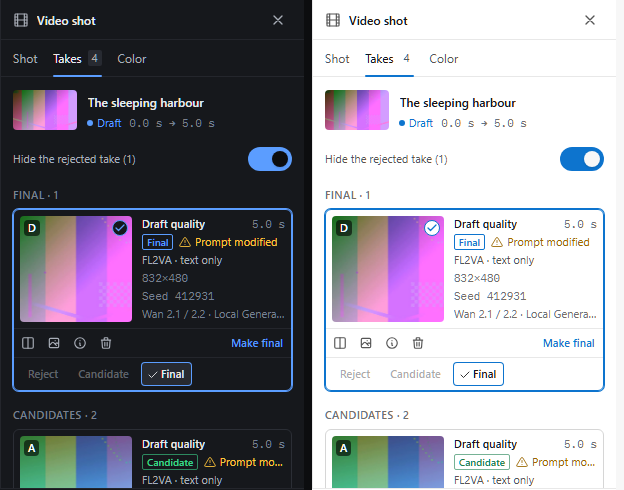
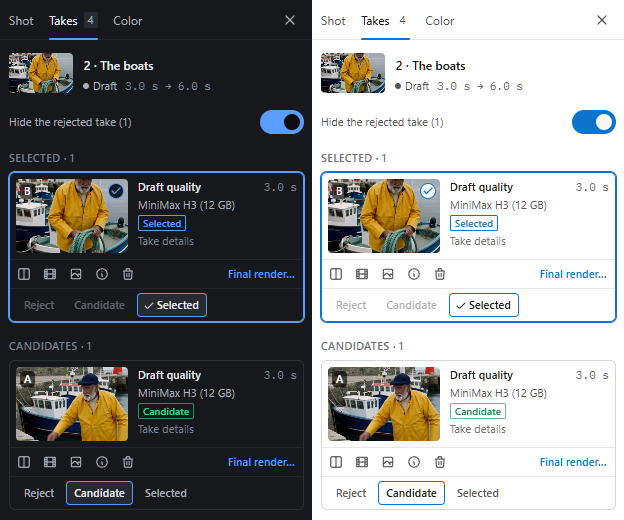
Video Producer screenshots: takes-cards, take-labels and export-video retaken on version 0.3.1 with real takes and a real export (the take cards with two finished and two failed drafts, the labels set by clicks, the export window with its Sound section), and their rows in the screenshots index descr

diff --git a/content/plugins/marketplace/video-producer/docs/screenshots/README.md b/content/plugins/marketplace/video-producer/docs/screenshots/README.md
@@ -103,7 +103,7 @@ The project is "Dawn at the harbour", the starter project of that time, with thr
 | Image | What it shows |
 |---|---|
 | [storyboard-takes](storyboard-takes.png) | The five cards: shot 1 with **Prompt modified** on its thumbnail (its take on the shot predates the edit), **Edit** on every card, shot 4 hovered with **Generate** and its drafts field at ×4, and shot 5 generating, with its step and progress over the thumbnail. Since 26 October 2026 a card has no **Generate**: a shot to generate shows only its drafts field, and the Production bar generates it; the header also starts with the grid icon, before "Storyboard". |
-| [take-labels](take-labels.png) | The Inspector of shot 1, tab **Takes**: **Hide the rejected take (1)** on, the group **Final** with take D ("Draft quality", then its label chip **Final** and **Prompt modified**, and **Reject**, **Candidate**, **Final** under the card, the first two greyed on the final take), then the group **Candidates** with take A. Since 26 October 2026 the tabs **Shot**, **Takes** and **Color** sit in the header of the Inspector, in place of the title "Video shot"; this image, taken before, shows them under it. |
+| [take-labels](take-labels.png) | 624 x 520 (312 x 520 per theme). Retaken on 12 November 2026 for version 0.3.1. The Inspector of shot 2 ("2 · The boats"), tab **Takes** in its header: **Hide the rejected take (1)** on, the group **Selected** with take B ("Draft quality", MiniMax H3 (12 GB), its label chip **Selected**, and **Reject** and **Candidate** greyed under the card, since a selected take stays selected until another one is), then the group **Candidates** with take A. The labels were set by real clicks on the take cards (B **Selected**, A **Candidate**, C **Reject**). |
 | [shot-editor](shot-editor.png) | The window "Shot · The sleeping harbour" after saving: the note on the 4 takes, the prompt, **References** with "Old fisherman" inherited and "Harbour at night" excluded (struck through), a reference of the shot only, named after its image file, the duration, the first and last frames, the drafts at ×3 and the **Engine** section of the shot, every field "As the project". |
 | [timeline-progress](timeline-progress.png) | The timeline with the block of shot 5 showing "Sampling · 9/20", 45 % and its bar, like the Storyboard card; the first and last frames of shot 1 on the Frames row. |
 
@@ -136,13 +136,15 @@ Nothing is staged in these images. The three sounds ("fisherman-voice.wav", "acc
 
 ## Generation
 
+The three rows `takes-cards`, `take-labels` and `export-video` were retaken on 12 November 2026 for version 0.3.1, dark theme on the left and light theme on the right, English interface, with test accounts, on a throwaway instance without a GPU that served `dev` and worked on a copy of the storage of two earlier GPU test instances. Nothing in them is staged: the takes are real MiniMax-H3 (12 GB) drafts made on those instances (two of them failed there for real, with the `gpu_restart_required` code), the shots were renamed in English in the copy, the labels were set by clicks, and the export ran ffmpeg on the server.
+
 `takes-cards.png`, `make-final.png` and `engine-popup.png` show the plugin alone, with no prototype next to them: the prototype never ran a generation. Each image joins the dark theme (left) and the light theme (right) of the English interface, as 1:1 crops of 1440 x 900 captures (no reduction), kept as PNG.
 
 The machine that took them has no GPU and no cloud key, so the generation routes of the plugin (`/me` engines and presets, `/estimate`, `/generate`, `/takes`, `/queue`, `/final`, `/cancel`, `/retry`) were answered by the capture script with data in the shape of the step 4 contract; the project, its autosave and the media library are the real ones. The videos of the done takes are two real MP4 files of the media library (832 x 480, 5 s, H.264) and their thumbnails come from the host. The seeds and the error message are made up for the captures.
 
 | Image | What it shows |
 |---|---|
-| [takes-cards](takes-cards.png) | 624 x 760 (312 x 760 per theme, English interface, crops of 1440 x 1200 captures, the bottom panel lowered). The group **Drafts · 3** of shot 1 in the Inspector: take E failed ("Draft quality", label **Draft**, "Failed", the readable message "The server’s GPU ran out of memory: try a lower resolution or fewer frames.", **Retry**, and **Reject**, **Candidate**, **Final** under it, **Final** greyed since the take has no video), take F generating ("Generating", "Sampling · 9/20", "45%", its bar and **Cancel**) and take G queued ("Queued", **Cancel**), then "3 more drafts" with the drafts field at ×3 (greyed while shot 1 generates; since 26 October 2026 that button is gone and the line reads "Drafts of this shot" next to the field). Taken on 23 October 2026 on the throwaway instance of the section Storyboard: drafts, labels, shot editor, progress: take E is a row written in the takes table (with the `cuda_oom` code), takes F and G are added to the answers of the take routes by the capture script. |
+| [takes-cards](takes-cards.png) | 624 x 840 (312 x 840 per theme, crops of 1440 x 1200 captures, the timeline lowered). Retaken on 12 November 2026 for version 0.3.1. The group **Drafts · 4** of shot 2 in the Inspector: takes A and B finished ("Draft quality", MiniMax H3 (12 GB), label **Draft**, the tools row and **Final render…**; B is the take placed on the shot, with its check mark), then takes C and D failed ("Failed", the readable message "The server’s GPU needs a restart before it can generate again: an administrator must restart the backend (Administration › Backends).", **Retry**, and **Selected** greyed since the take has no video). |
 | [make-final](make-final.png) | 1024 x 377. The "Make final" window of take A: title with the shot and the variant, subtitle with the draft size and the seed, then "Upscale" with the SeedVR2 hint and the four targets (720p, 1080p, 1440p, 4K; 1080p is preselected because the project resolution is 1080p). "Upscale to 1080p" is the primary action; "Re-render at full resolution" sits on the left and the hint above it names its size (1280 x 720) and the same seed. |
 | [engine-popup](engine-popup.png) | 820 x 208. The engine pop-up of the Production bar, with the "AI generation" output mode and the sliders button around it (it opened the Advanced workshop when the image was taken; since 24 October 2026 it is **Edit Engine**, which opens the window of the engine options, and the profile, the margin and the count of the shots with their own engine sit between the pop-up and it). A native drop-down list is not painted by a headless screenshot, so the image shows the same `<select>` twice: closed, in the bar, and cloned as an open list box right under it. Groups are the backend names given by the host: "Local Generation" lists the presets of the native backend (Wan 2.1 / 2.2, MiniMax H3, MiniMax H3 Fast), "OpenRouter" lists the cloud models turned on (Veo 3 Fast, Kling 2.1). The selected entry is the one written in the document (`engine.preset`, `engine.model`, `engine.backend`). |
 
@@ -171,5 +173,5 @@ The real video is also visible in the thumbnails of `real-take.png` and in `dire
 
 | Image | What it shows |
 |---|---|
-| [export-video](export-video.png) | 1248 x 1332. The export window, "Video" tab, for the project "Dawn at the harbour" (web, 1080p, whole sequence). Top row: a run in progress, with the server step ("Assembling the shots", then mixing, converting and saving), the percentage, the progress bar and "Cancel"; the format, resolution and extent fields are locked while it runs and the "Export" button is disabled. Bottom row: the same export finished, with the file name and size (3.1 MB), "Show in the library" (the server stored a copy in the user's library) and "Download". The "Previous exports" list starts with the export in progress ("Rendering" and its percentage) and, once it ends, shows it as "Ready" with its size, a download icon and a trash icon. The "4 shots not final yet" warning is kept: only shot 1 (a real take) and the imported shot 6 have a file, the other shots are rendered black. "Audio stems by role" keeps its "Simulated" badge: stems, ProRes master and H.265 archive are not produced. Since 27 October 2026 they are produced, the badge and the extent field are gone; this image, taken before, still shows them. |
+| [export-video](export-video.png) | 1204 x 1492. Retaken on 12 November 2026 for version 0.3.1. The export window, "Video" tab, for the starter project "Lumi’s potion" (web, 1080p): the format and resolution fields, the audio stems switch, the **Sound** section (**Level** "As mixed", **Crossfade between neighbouring clips** "None"), the file card ("Lumis_potion_1080p.mp4", 1920×1080, 16:9, 25 fps, with the note that the takes are 832×480 at most) and the note on the takes at 24 fps in a 25 fps film. Top row: a real export just started, "Rendering", step "Assembling the shots" at 0 %, with **Cancel**, the fields locked and **Export** disabled. Bottom row: the same export finished, "Lumis_potion_1080p.mp4 is ready · 3 MB", **Show in the library** and **Download**, and the **Previous exports** list with it as "Ready". The "4 shots not final yet" warning is kept: shots 1 and 2 play their draft take, shots 3 and 4 have none and are rendered black. |
 | [seam-frame](seam-frame.png) | 656 x 512. The Shot tab of the inspector for the shot "Shot two" (a test project copied from "Dawn at the harbour", with its real takes) right after "Use the previous shot's last frame": the "Frames" section shows the image the server extracted from the last frame of the take of the shot before (832 x 480 PNG, stored in the library) as the first frame, the last frame is still empty, and the button can be used again (it then asks before replacing the frame, and the page offers "Undo"). Since 26 October 2026 the tabs **Shot**, **Takes** and **Color** sit in the header of the Inspector, in place of the title "Video shot"; this image, taken before, shows them under it. |
